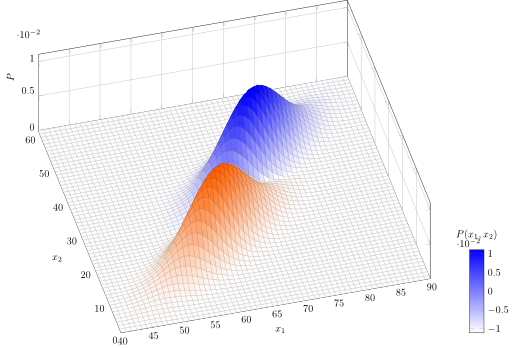
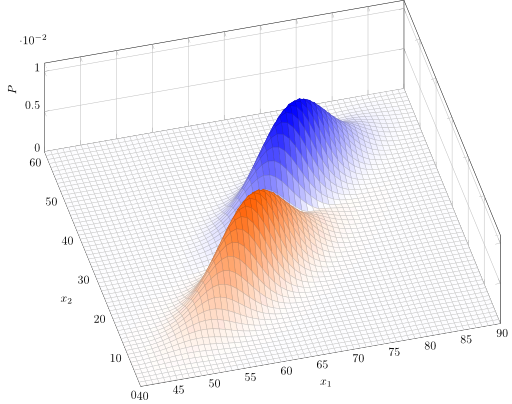
removed color bar

diff --git a/tikz/3d-gaussian-distribution/3d-gaussian-distribution.tex b/tikz/3d-gaussian-distribution/3d-gaussian-distribution.tex
@@ -37,14 +37,7 @@ colormap={whiteblue}{color(0cm)=(white); color(1cm)=(blue)},
     samples=60,
     xlabel=$x_1$,
     ylabel=$x_2$,
-    zlabel={$P$},
-    colorbar,
-    colorbar style={
-        at={(1.1,0)},
-        anchor=south west,
-        height=0.25*\pgfkeysvalueof{/pgfplots/parent axis height},
-        title={$P(x_1,x_2)$}
-    }
+    zlabel={$P$}
 ]
 \addplot3 [
     surf,
